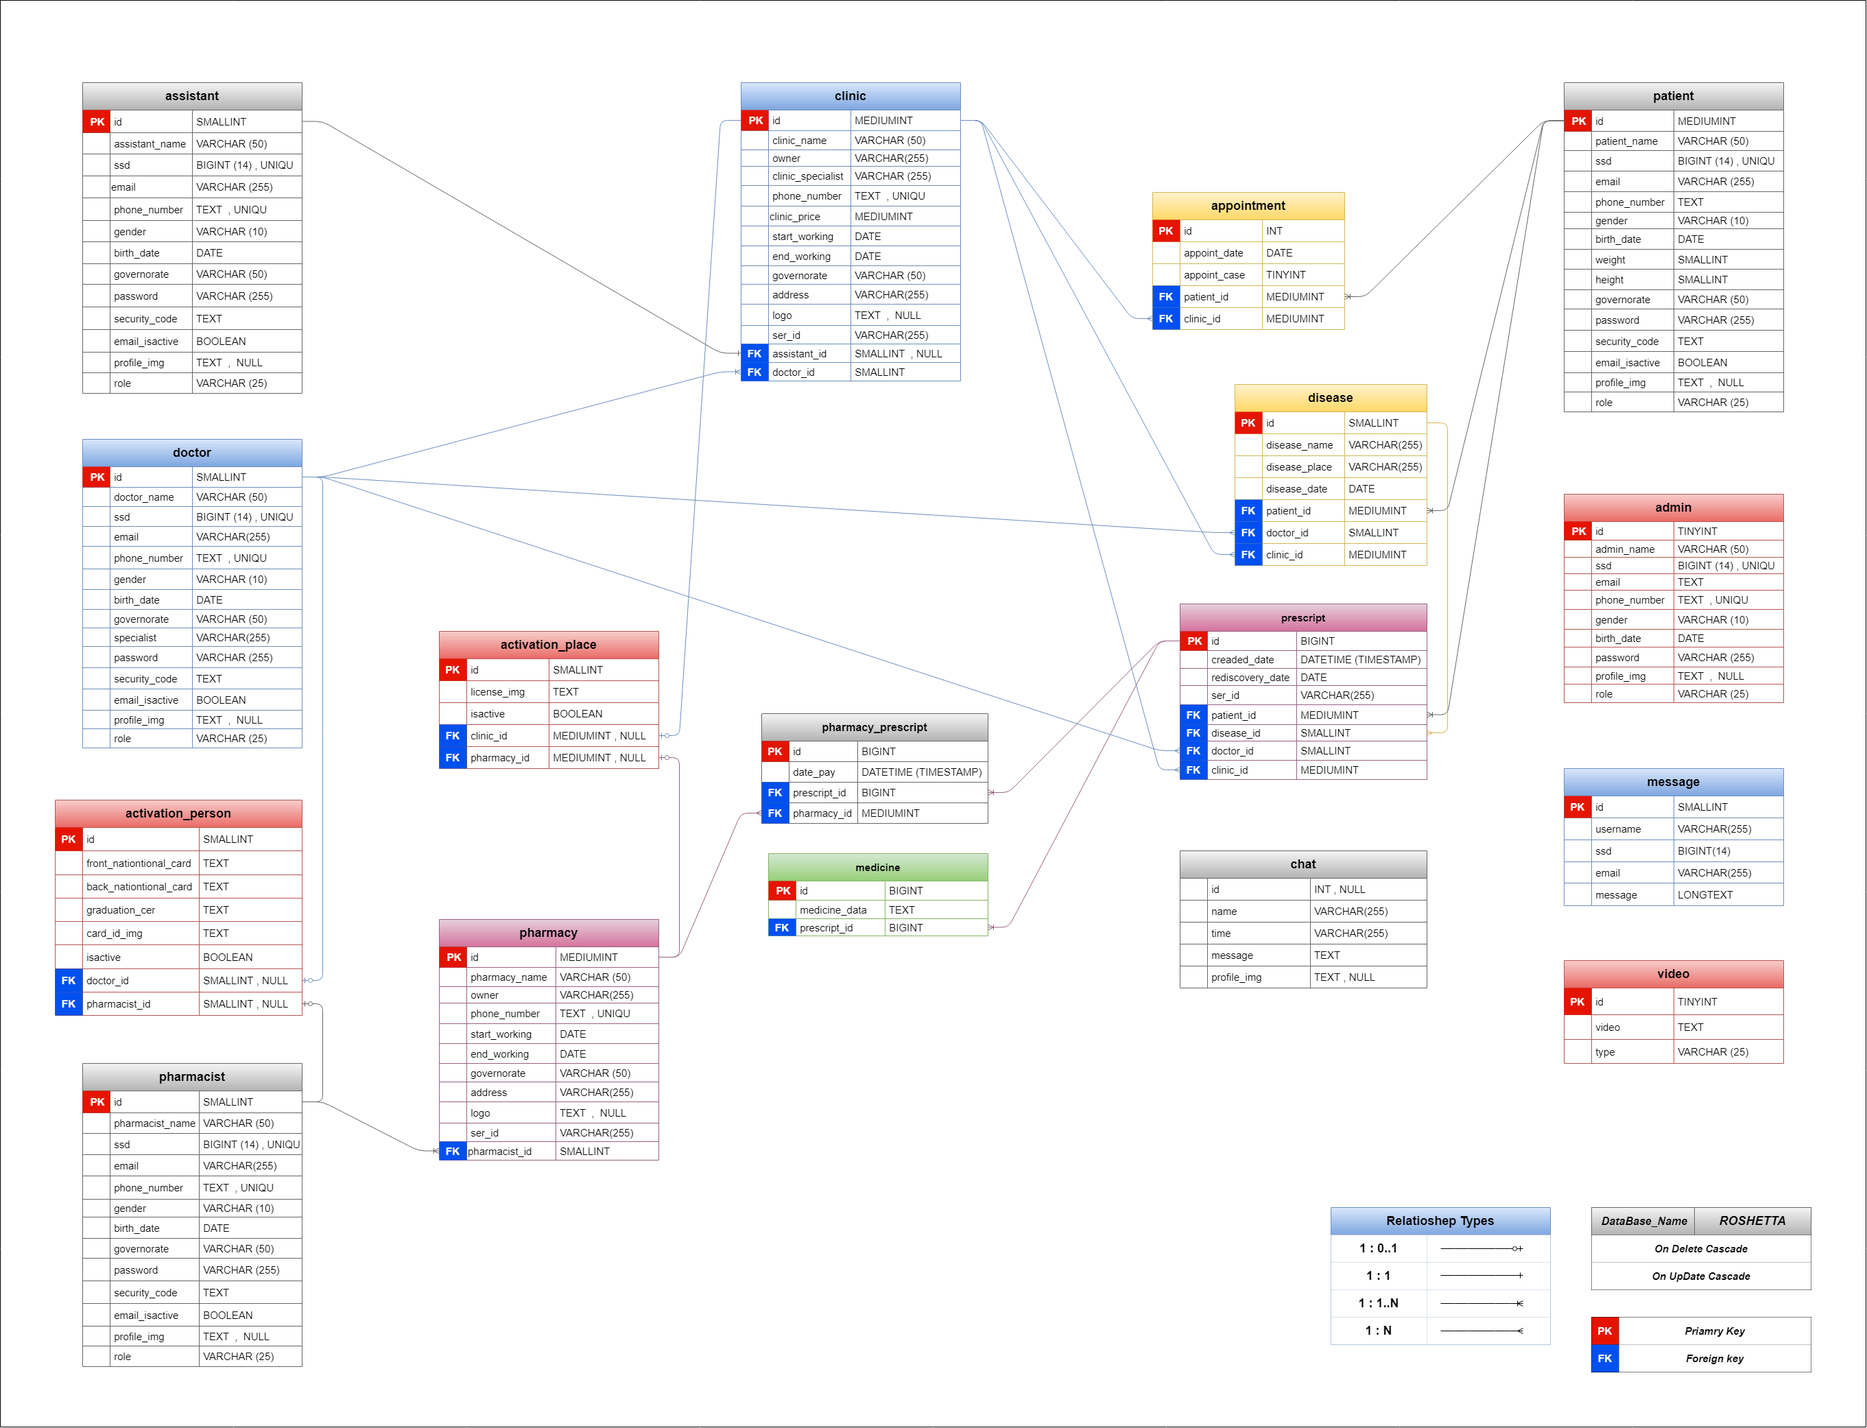
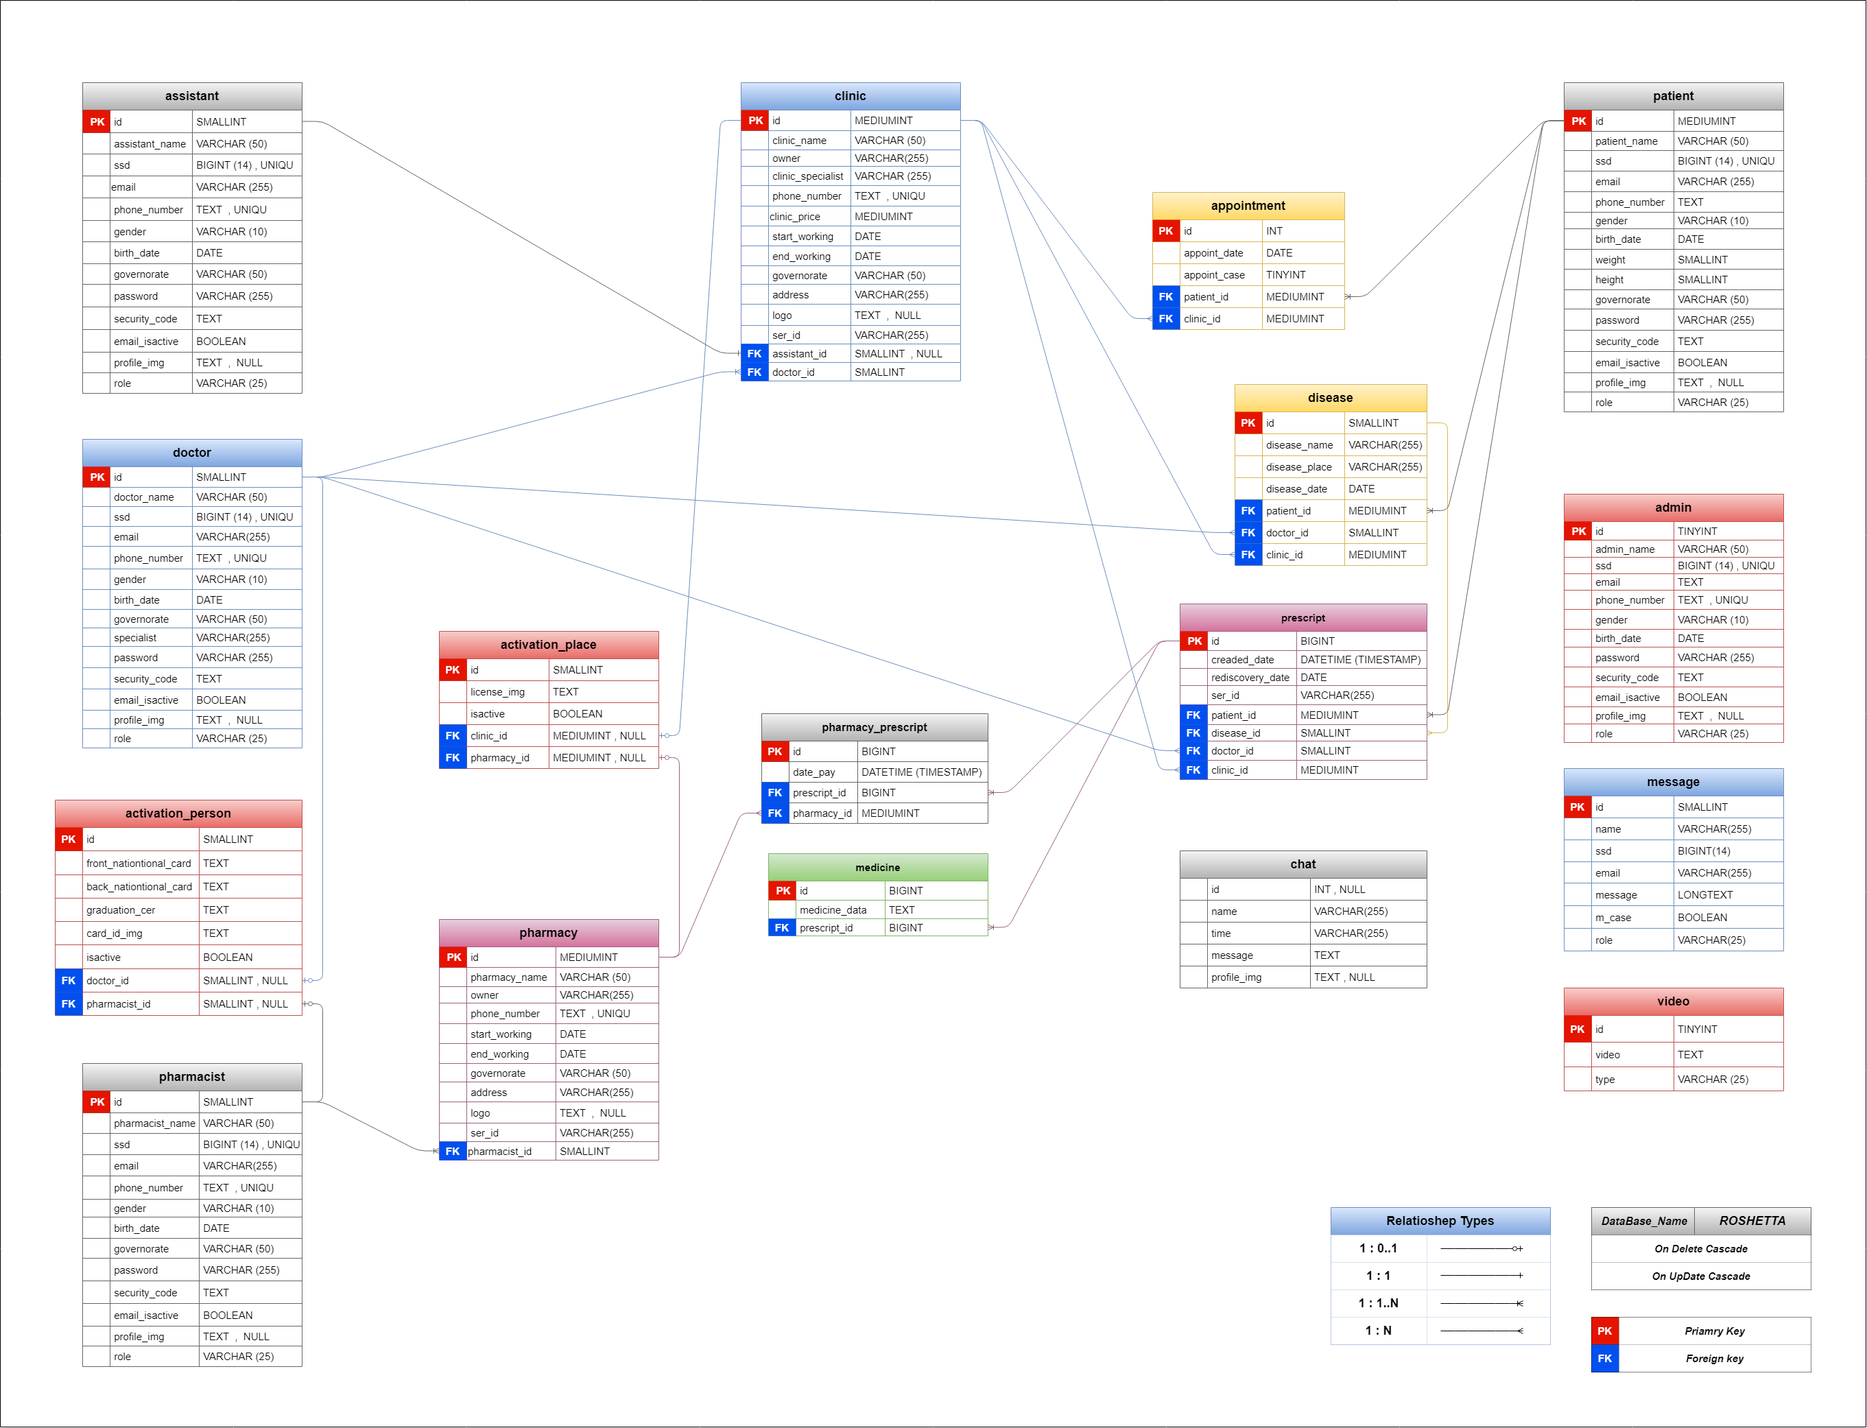
Update This File

Changed region(s): [[0.8119, 0.6556, 0.968, 0.7493], [0.8431, 0.4683, 0.9368, 0.5307]]

diff --git a/ROSHETTA_API/API_User/Message_U.php b/ROSHETTA_API/API_User/Message_U.php
@@ -2,6 +2,7 @@
 
 require_once("../API_C_A/Allow.php"); //Allow All Headers 
 require_once("../API_C_A/Connection.php"); //Connect To DataBases
+require_once("../API_Mail/Mail.php"); //To Send Email
 
 session_start();
 session_regenerate_id();
@@ -16,31 +17,31 @@ if ($_SERVER['REQUEST_METHOD'] == 'POST' || isset($_SESSION['admin'])) { //Allow
     ) {
 
         if (isset($_SESSION['patient'])) {
-            $username   = $_SESSION['patient']->patient_name;
+            $name       = $_SESSION['patient']->patient_name;
             $ssd        = $_SESSION['patient']->ssd;
             $email      = $_SESSION['patient']->email;
             $role       = $_SESSION['patient']->role;
 
         } elseif (isset($_SESSION['doctor'])) {
-            $username   = $_SESSION['doctor']->doctor_name;
+            $name       = $_SESSION['doctor']->doctor_name;
             $ssd        = $_SESSION['doctor']->ssd;
             $email      = $_SESSION['doctor']->email;
             $role       = $_SESSION['doctor']->role;
 
         } elseif (isset($_SESSION['pharmacist'])) {
-            $username   = $_SESSION['pharmacist']->pharmacist_name;
+            $name       = $_SESSION['pharmacist']->pharmacist_name;
             $ssd        = $_SESSION['pharmacist']->ssd;
             $email      = $_SESSION['pharmacist']->email;
             $role       = $_SESSION['pharmacist']->role;
 
         } elseif (isset($_SESSION['assistant'])) {
-            $username   = $_SESSION['assistant']->assistant_name;
+            $name       = $_SESSION['assistant']->assistant_name;
             $ssd        = $_SESSION['assistant']->ssd;
             $email      = $_SESSION['assistant']->email;
             $role       = $_SESSION['assistant']->role;
 
         } else {
-            $username = '';
+            $name = '';
             $ssd = '';
             $email = '';
             $role = '';
@@ -55,10 +56,10 @@ if ($_SERVER['REQUEST_METHOD'] == 'POST' || isset($_SESSION['admin'])) { //Allow
 
             //Add To Message Table
 
-            $addMessage = $database->prepare("INSERT INTO message(username,email,ssd,role,message)
-                                                        VALUES(:username,:email,:ssd,:role,:message)");
+            $addMessage = $database->prepare("INSERT INTO message(name,email,ssd,role,message)
+                                                        VALUES(:name,:email,:ssd,:role,:message)");
 
-            $addMessage->bindparam("username", $username);
+            $addMessage->bindparam("name", $name);
             $addMessage->bindparam("email", $email);
             $addMessage->bindparam("ssd", $ssd);
             $addMessage->bindparam("role", $role);
@@ -68,6 +69,47 @@ if ($_SERVER['REQUEST_METHOD'] == 'POST' || isset($_SESSION['admin'])) { //Allow
             if ($addMessage->rowCount() > 0) {
 
                 print_r(json_encode(["Message" => "تم الارسال للمختص للمراجعة"]));
+
+                if ($role == 'PATIENT' || $role == 'ASSISTANT') {
+                    $Hi = 'مـــــرحبـــــا بــــك';
+                } elseif ($role == 'DOCTOR' || $role == 'PHARMACIST') {
+                    $Hi = 'مـــــرحبـــــا بــــك دكتــــور';
+                } else {
+                    $Hi = '';
+                }
+
+                $mail->setFrom('roshettateam@gmail.com', 'Roshetta Support');
+                $mail->addAddress($email);
+                $mail->Subject = 'فريق الدعم';
+                $mail->Body = '<div style="padding: 10px; max-width: 500px; margin: auto;border: #d7d7d7 2px solid;border-radius: 10px;background-color: rgba(241, 241, 241 , 0.5) !important;text-align: center;">
+                <img src="https://i.ibb.co/hVcMYnQ/lg-text.png" style="display: block;width: 110px;margin: auto;" alt="roshetta , روشته">
+                <hr style="margin: 20px 0;border: 1px solid #d7d7d7">
+                <img src="https://img.icons8.com/fluency/200/null/envelope-number.png" style="display: block;margin:  auto ;padding: 0px; width: 100px ; heigh: 100px;" alt="تأكيد الاميل">
+                <h3 style="text-align: center;font-family: cursive;padding: 0px;font-style: italic;">'.$Hi.'</h3>
+                <h3 style="text-align: center;font-family: cursive;padding: 0px;font-style: italic;">'. $name .'</h3>       
+                <p style="margin-top: 6px;font-family: cursive;color: #2d2d2d;">سوف يتم الرد على استفسارك فى غضون 48 ساعة الرجاء عدم تكرار الرسائل</p></br>  
+                <p style="margin-top: 6px;font-family: cursive;color: #2d2d2d;">نشكرك على التواصل معنا</p></br>                  
+                <p style="margin-top: 10px;font-family: cursive;color: #2d2d2d;"><b style="color: red;">ملاحظة / </b>هذة الرسالة ألية برجاء عدم الرد</p>
+                <hr style="margin: 10px 0;border: 1px solid #d7d7d7">
+                <div style="text-align: center;margin: auto">
+                <small style="color: #3e3e3e; font-weight: 500;font-family: cursive;">مع تحيات فريق روشتة</small><br>
+                <div style="margin-top: 10px;">
+                    <a href="http://google.com" target="_blank" rel="noopener noreferrer" style="text-decoration: none;">
+                        <img src="https://img.icons8.com/ios-glyphs/30/null/facebook-new.png" />
+                    </a>
+                    <a href="http://google.com" target="_blank" rel="noopener noreferrer" style="text-decoration: none;">
+                        <img src="https://img.icons8.com/ios-glyphs/30/null/instagram-new.png" />
+                    </a>
+                    <a href="http://google.com" target="_blank" rel="noopener noreferrer" style="text-decoration: none;">
+                        <img src="https://img.icons8.com/ios-glyphs/30/null/linkedin.png" />
+                    </a>
+                    <a href="http://google.com" target="_blank" rel="noopener noreferrer" style="text-decoration: none;">
+                        <img src="https://img.icons8.com/ios-glyphs/30/null/youtube--v1.png" />
+                    </a>
+                </div>                 
+                </div></div>';
+
+                $mail->send();
 
             } else {
                 print_r(json_encode(["Error" => "فشل ارسال الرسالة"]));

diff --git a/ROSHETTA_API/API_Admin/Reply_Message.php b/ROSHETTA_API/API_Admin/Reply_Message.php
@@ -1,0 +1,109 @@
+<?php
+
+require_once("../API_C_A/Allow.php"); //Allow All Headers
+require_once("../API_C_A/Connection.php"); //Connect To DataBases
+require_once("../API_Mail/Mail.php"); //To Send Email
+
+session_start();
+session_regenerate_id();
+
+if ($_SERVER['REQUEST_METHOD'] == 'POST' || isset($_SESSION['admin'])) { //Allow Access Via 'POST' Method Or Admin
+
+    if (isset($_SESSION['admin'])) {  // If Admin
+
+        if (
+            isset($_POST['id'])         && !empty($_POST['id'])
+            && isset($_POST['message']) && !empty($_POST['message'])
+        ) {
+
+            $message    = filter_var($_POST['message'], FILTER_SANITIZE_STRING);
+            $id         = filter_var($_POST['id'], FILTER_SANITIZE_NUMBER_INT);
+
+            if (filter_var($id, FILTER_VALIDATE_INT) !== FALSE) {
+
+                // Get From Message Table
+
+                $get_message = $database->prepare("SELECT name,email,role FROM message WHERE id = :id");
+                $get_message->bindparam("id", $id);
+                $get_message->execute();
+
+                if ($get_message->rowCount() > 0) {
+
+                    $data_message = $get_message->fetchObject();
+
+                    $name = $data_message->name;
+                    $email = $data_message->email;
+                    $role = $data_message->role;
+
+                    if ($role == 'PATIENT' || $role == 'ASSISTANT') {
+                        $Hi = 'مـــــرحبـــــا بــــك';
+                    } elseif ($role == 'DOCTOR' || $role == 'PHARMACIST') {
+                        $Hi = 'مـــــرحبـــــا بــــك دكتــــور';
+                    } else {
+                        $Hi = '';
+                    }
+
+                    //Send Email For User
+
+                    $mail->setFrom('roshettateam@gmail.com', 'Roshetta Support');
+                    $mail->addAddress($email);
+                    $mail->Subject = 'رد على استفسارك من قبل فريق الدعم';
+                    $mail->Body = '<div style="padding: 10px; max-width: 500px; margin: auto;border: #d7d7d7 2px solid;border-radius: 10px;background-color: rgba(241, 241, 241 , 0.5) !important;text-align: center;">
+                    <img src="https://i.ibb.co/hVcMYnQ/lg-text.png" style="display: block;width: 110px;margin: auto;" alt="roshetta , روشته">
+                    <hr style="margin: 20px 0;border: 1px solid #d7d7d7">
+                    <img src="https://img.icons8.com/fluency/200/null/envelope-number.png" style="display: block;margin:  auto ;padding: 0px; width: 100px ; heigh: 100px;" alt="تأكيد الاميل">
+                    <h3 style="text-align: center;font-family: cursive;padding: 0px;font-style: italic;">'.$Hi.'</h3>
+                    <h3 style="text-align: center;font-family: cursive;padding: 0px;font-style: italic;">'. $name .'</h3>
+                    <p style="margin-top: 6px;font-family: cursive;color: #2d2d2d;">'.$message.'</p></br>         
+                    <p style="margin-top: 10px;font-family: cursive;color: #2d2d2d;"><b style="color: red;">ملاحظة / </b>إذا كان لديك أى استفسار أخر برجاء التواصل معنا</p>
+                    <hr style="margin: 10px 0;border: 1px solid #d7d7d7">
+                    <div style="text-align: center;margin: auto">
+                    <small style="color: #3e3e3e; font-weight: 500;font-family: cursive;">مع تحيات فريق روشتة</small><br>
+                    <div style="margin-top: 10px;">
+                        <a href="http://google.com" target="_blank" rel="noopener noreferrer" style="text-decoration: none;">
+                            <img src="https://img.icons8.com/ios-glyphs/30/null/facebook-new.png" />
+                        </a>
+                        <a href="http://google.com" target="_blank" rel="noopener noreferrer" style="text-decoration: none;">
+                            <img src="https://img.icons8.com/ios-glyphs/30/null/instagram-new.png" />
+                        </a>
+                        <a href="http://google.com" target="_blank" rel="noopener noreferrer" style="text-decoration: none;">
+                            <img src="https://img.icons8.com/ios-glyphs/30/null/linkedin.png" />
+                        </a>
+                        <a href="http://google.com" target="_blank" rel="noopener noreferrer" style="text-decoration: none;">
+                            <img src="https://img.icons8.com/ios-glyphs/30/null/youtube--v1.png" />
+                        </a>
+                    </div>                 
+                    </div></div>';
+
+                    if ($mail->send()) {
+
+                        //Update Case Message 
+
+                        $update_message = $database->prepare("UPDATE message SET m_case = 1 WHERE id = :id");
+                        $update_message->bindparam("id", $id);
+                        $update_message->execute();
+
+                        if ($update_message->rowCount() > 0 ) {
+                            print_r(json_encode(["Message" => "تم إرسال الرد بنجاح"]));
+                        } else {
+                            print_r(json_encode(["Error" => "فشل تعديل الحالة"]));
+                        }
+                    } else{
+                        print_r(json_encode(["Error" => "فشل إرسال الرد"]));
+                    }
+                } else {
+                    print_r(json_encode(["Error" => "لا يوجد رسائل"]));
+                }
+            } else {
+                print_r(json_encode(["Error" => "البريد الإلكترونى غير صالح"]));
+            }
+        } else {
+            print_r(json_encode(["Error" => "يجب اكمال البيانات"]));
+        }
+    } else {
+        print_r(json_encode(["Error" => "ليس لديك الصلاحية"]));
+    }
+} else { //If The Entry Method Is Not 'POST'
+    print_r(json_encode(["Error" => "غير مسرح بالدخول عبر هذة الطريقة"]));
+}
+?>

diff --git a/ROSHETTA_API/API_C_P/Clinic/Edit.php b/ROSHETTA_API/API_C_P/Clinic/Edit.php
@@ -107,7 +107,6 @@ if (isset($_SESSION['doctor']) || isset($_SESSION['assistant'])) {
                         //Get New Data From Clinic Table
 
                         $get_data = $database->prepare("SELECT * FROM clinic WHERE id = :id ");
-
                         $get_data->bindparam("id", $id);
                         $get_data->execute();
 
@@ -121,7 +120,6 @@ if (isset($_SESSION['doctor']) || isset($_SESSION['assistant'])) {
 
                             header("refresh:2;");
 
-
                         } else {
                             print_r(json_encode(["Error" => "فشل جلب البيانات"]));
                         }
@@ -129,11 +127,9 @@ if (isset($_SESSION['doctor']) || isset($_SESSION['assistant'])) {
                         print_r(json_encode(["Error" => "فشل تعديل البيانات"]));
                     }
                 }
-
             } else {
                 print_r(json_encode(["Error" => "رقم الهاتف غير صالح"]));
             }
-            
         } else {
 
             //Print Clinic Data From Session

diff --git a/ROSHETTA_API/API_Admin/View_Message_Unread.php b/ROSHETTA_API/API_Admin/View_Message_Unread.php
@@ -1,0 +1,27 @@
+<?php
+
+require_once("../API_C_A/Allow.php"); //Allow All Headers
+require_once("../API_C_A/Connection.php"); //Connect To DataBases
+
+session_start();
+session_regenerate_id();
+
+if (isset($_SESSION['admin'])) {
+
+    // Get From Message Table
+
+    $get_message = $database->prepare("SELECT name,email,message,role FROM message WHERE m_case = 0  ORDER BY time DESC");
+    $get_message->execute();
+
+    if ($get_message->rowCount() > 0) {
+
+        $data_message = $get_message->fetchAll(PDO::FETCH_ASSOC);
+        print_r(json_encode($data_message));
+        
+    } else {
+        print_r(json_encode(["Error" => "لا يوجد رسائل"]));
+    }
+} else {
+    print_r(json_encode(["Error" => "ليس لديك الصلاحية"]));
+}
+?>

diff --git a/ROSHETTA_API/API_Admin/View_Message_read.php b/ROSHETTA_API/API_Admin/View_Message_read.php
@@ -1,0 +1,27 @@
+<?php
+
+require_once("../API_C_A/Allow.php"); //Allow All Headers
+require_once("../API_C_A/Connection.php"); //Connect To DataBases
+
+session_start();
+session_regenerate_id();
+
+if (isset($_SESSION['admin'])) {
+
+    // Get From Message Table
+
+    $get_message = $database->prepare("SELECT name,email,message,role FROM message WHERE m_case = 1 ORDER BY time DESC");
+    $get_message->execute();
+
+    if ($get_message->rowCount() > 0) {
+
+        $data_message = $get_message->fetchAll(PDO::FETCH_ASSOC);
+        print_r(json_encode($data_message));
+        
+    } else {
+        print_r(json_encode(["Error" => "لا يوجد رسائل"]));
+    }
+} else {
+    print_r(json_encode(["Error" => "ليس لديك الصلاحية"]));
+}
+?>

diff --git a/ROSHETTA_API/API_Admin/API_IMG/Delete_Profile_Img.php b/ROSHETTA_API/API_Admin/API_IMG/Delete_Profile_Img.php
@@ -6,6 +6,8 @@ require_once("../../API_C_A/Connection.php"); //Connect To DataBase
 session_start();
 session_regenerate_id();
 
+if ($_SERVER['REQUEST_METHOD'] == 'POST' || isset($_SESSION['admin'])) { //Allow Access Via 'POST' Method Or Admin
+
     if (isset($_SESSION['admin'])) { //If Find Admin Session
 
         $id          = $_SESSION['admin']->id;
@@ -38,4 +40,7 @@ session_regenerate_id();
     } else {
         print_r(json_encode(["Error" => "فشل العثور على مستخدم"]));
     }
+} else { //If The Entry Method Is Not 'POST'
+    print_r(json_encode(["Error" => "غير مسرح بالدخول عبر هذة الطريقة"]));
+}
 ?>

diff --git a/ROSHETTA_API/API_User/API_IMG/Delete_Profile_Img.php b/ROSHETTA_API/API_User/API_IMG/Delete_Profile_Img.php
@@ -6,6 +6,8 @@ require_once("../../API_C_A/Connection.php"); //Connect To DataBase
 session_start();
 session_regenerate_id();
 
+if ($_SERVER['REQUEST_METHOD'] == 'POST' || isset($_SESSION['admin'])) { //Allow Access Via 'POST' Method Or Admin
+
     if (
         isset($_SESSION['patient'])
         || isset($_SESSION['doctor'])
@@ -67,4 +69,7 @@ session_regenerate_id();
     } else {
         print_r(json_encode(["Error" => "فشل العثور على مستخدم"]));
     }
+} else { //If The Entry Method Is Not 'POST'
+    print_r(json_encode(["Error" => "غير مسرح بالدخول عبر هذة الطريقة"]));
+}    
 ?>
